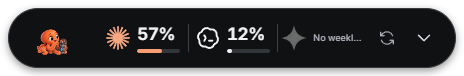
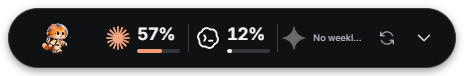
Lead README with the actual starry companion island screenshot

Changed region(s): [[0.0603, 0.2895, 0.1509, 0.7368]]

diff --git a/README.md b/README.md
@@ -2,6 +2,8 @@
 <p align="center"><b>Three AI subscriptions. One tiny island.</b><br>See your quota. Pace your day. Keep a little companion nearby.</p>
 <p align="center"><a href="https://github.com/jaylooloomi/quota-island/releases/latest">Download for Windows</a> · <a href="README.zh-TW.md">繁體中文</a> · <a href="LICENSE">MIT</a></p>
 
+<p align="center"><img src="docs/readme-v1.16.5/stage-en.png" alt="Your quotas above. A little companion below." width="464"><br><b>Your quotas above. A little companion below.</b><br><sub>Actual app screenshot · demo data</sub></p>
+
 ![Quota Pebble illustrated feature overview](docs/readme-v1.16.5/overview-en.png)
 
 *Illustrated overview generated from actual v1.16.5 screenshots. All pictured percentages are demo data.*

diff --git a/docs/readme-v1.16.5/PROVENANCE.md b/docs/readme-v1.16.5/PROVENANCE.md
@@ -8,3 +8,5 @@
 - Editorial structure reference: [i-want-to-sleep README](https://github.com/jaylooloomi/i-want-to-sleep): short product introduction, use-case table, three-step setup and practical limits. Its installation commands and permissions were not adopted.
 
 The screenshots document UI behavior, not provider availability or successful authorization of every account. Model-generated overviews may simplify fine UI details; refer to the unedited screenshots for the actual interface.
+
+- `stage-en.png`, `stage-zh-TW.png`: actual packaged-app screenshots from `scripts/readme-stage-screenshots.cjs`, with a Claude cat resident on the meteor-forest lower stage. The capture waits for the stage and native window height before taking the screenshot.

diff --git a/README.zh-TW.md b/README.zh-TW.md
@@ -2,6 +2,8 @@
 <p align="center"><b>三家 AI 訂閱，一顆桌面小島。</b><br>額度一眼掌握，工作有配速，桌上有陪伴。</p>
 <p align="center"><a href="https://github.com/jaylooloomi/quota-island/releases/latest">下載 Windows 版</a> · <a href="README.md">English</a> · <a href="LICENSE">MIT</a></p>
 
+<p align="center"><img src="docs/readme-v1.16.5/stage-zh-TW.png" alt="上面掌握額度，下面有個小夥伴。" width="464"><br><b>上面掌握額度，下面有個小夥伴。</b><br><sub>App 實際截圖 · 展示資料</sub></p>
+
 ![Quota Pebble 核心功能介紹圖](docs/readme-v1.16.5/overview-zh-TW.png)
 
 *以 v1.16.5 實際截圖為參考繪製的功能介紹圖；圖片中的百分比均為展示資料。*
